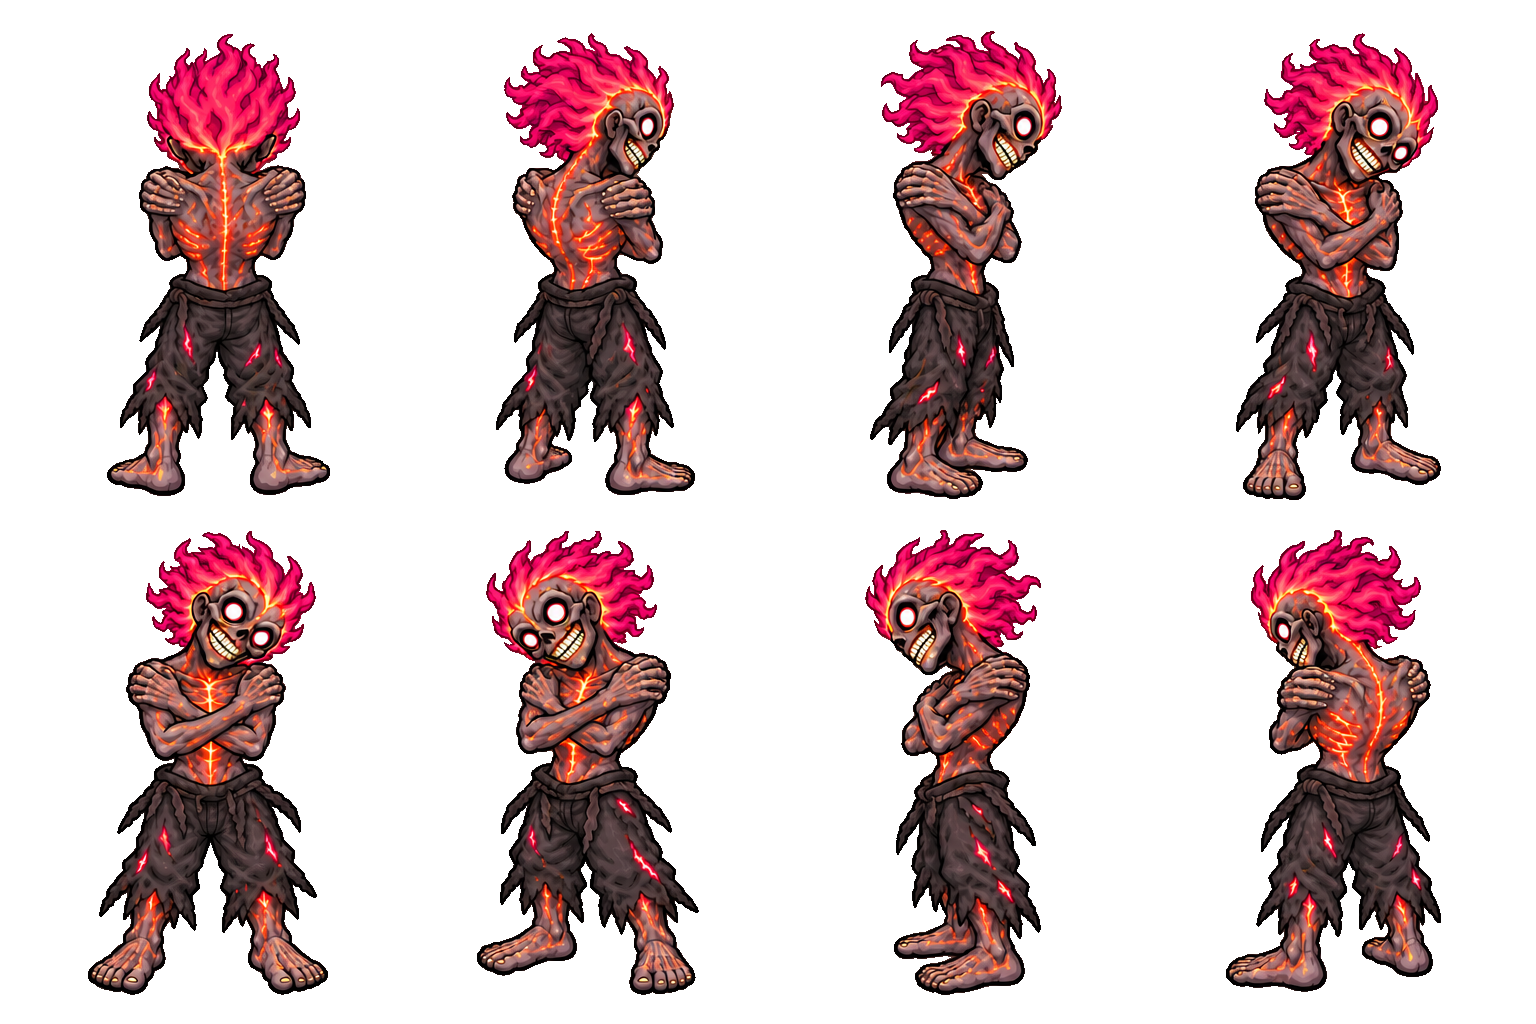
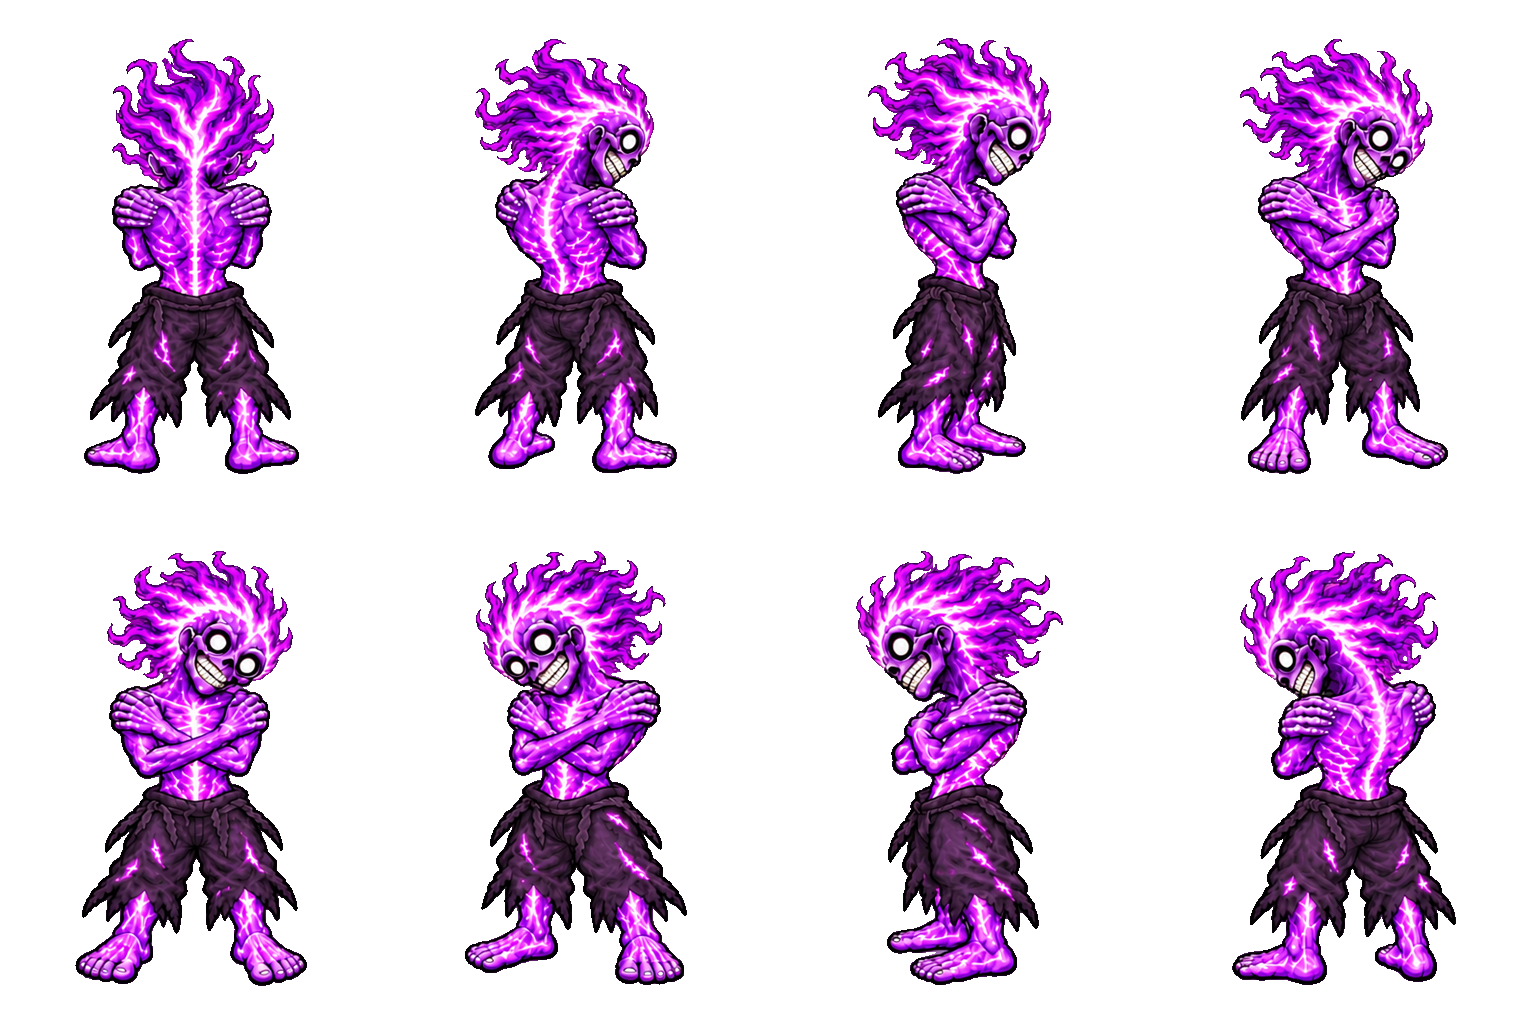
arte: o Anárquico Descontrolado roxo, feito de energia, com a chama roxa
O Felipe: "ele não é vermelho, é roxo, brilhante; ele é literalmente
feito de energia". O corpo inteiro de energia violeta acesa, e a chama
de criatura roxa e magenta (chama.ts).

diff --git a/shared/src/chama.ts b/shared/src/chama.ts
@@ -25,6 +25,8 @@ export const CHAMAS_DAS_CRIATURAS: Record<string, ChamaCriatura> = {
   'anfitriao-liber': { cor: '#ff8a1e', acento: '#a8340c', intensidade: 1 },
   'anfitriao-silenus': { cor: '#2fd9c8', acento: '#0f6e8c', intensidade: 1 },
   'anfitriao-plautus': { cor: '#ff62ae', acento: '#9a2a86', intensidade: 1 },
+  // o Anárquico Descontrolado (23/10, o Felipe: "ele não é vermelho, é roxo, brilhante; ele é literalmente feito de energia")
+  'anarquico-descontrolado': { cor: '#a24bff', acento: '#4a1a9a', toque: '#ff7ae8', intensidade: 1.2 },
 };
 
 const limpoHex = (v: unknown): string | null => (typeof v === 'string' && /^#[0-9a-fA-F]{6}$/.test(v) ? v.toLowerCase() : null);
